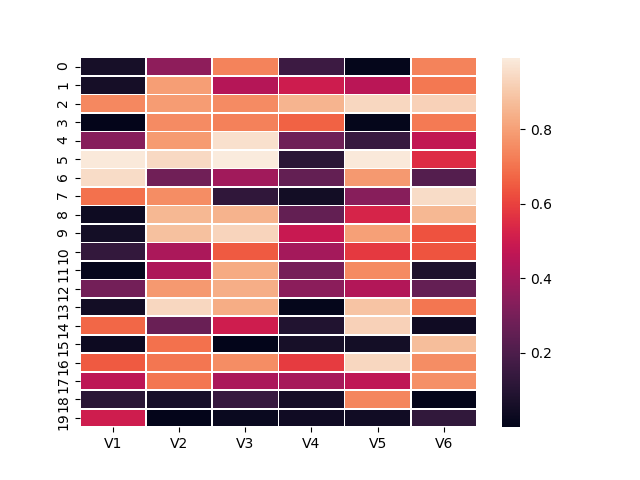
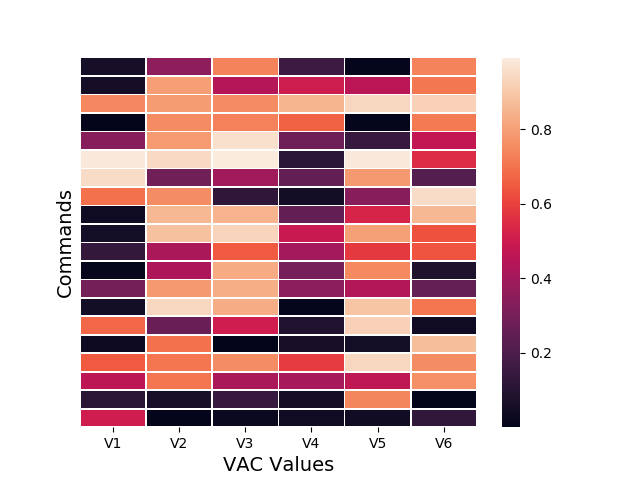
images results changed

diff --git a/Naveen/Study_IV_Processing/ProcessKinectLog.py b/Naveen/Study_IV_Processing/ProcessKinectLog.py
@@ -411,6 +411,7 @@ class ProcessKinectLog:
 			y_pred = lr.predict(x)
 			r2 = lr.score(x, y)
 			r2_list_overall.append(r2)
+			if(r2 < 0.2): continue
 			plt.figure()
 			plt.scatter(x[:sz/2], y[:sz/2], marker = '<', color = 'blue')
 			plt.scatter(x[sz/2:], y[sz/2:], marker = 's', color = 'green')
@@ -426,7 +427,11 @@ class ProcessKinectLog:
 			except Exception as exp:
 				pass
 			fpath = join(dir_name, fname)
-			plt.savefig(fpath)
+			try:
+				plt.savefig(fpath)					
+			except Exception as exp:
+				pass
+
 
 		## Command wise
 		num_lexs = len(self.lex_paths)
@@ -528,7 +533,9 @@ if(__name__ == '__main__'):
 		xticks = ['V1','V2','V3', 'V4', 'V5', 'V6']
 		yticks = [str(_idx) for _idx in range(20)]
 		plt.figure()
-		sns.heatmap(A, linewidth = 0.5, xticklabels = xticks)
+		sns.heatmap(A, linewidth = 0.5, xticklabels = xticks, yticklabels = False)
+		plt.ylabel('Commands', fontsize = 14)
+		plt.xlabel('VAC Values', fontsize = 14)
 		plt.savefig(join('results', 'cmd_'+method+'_U'+str(idx+1)+'.png'))
 
 	# print(time_data.shape, vac_data.shape)
